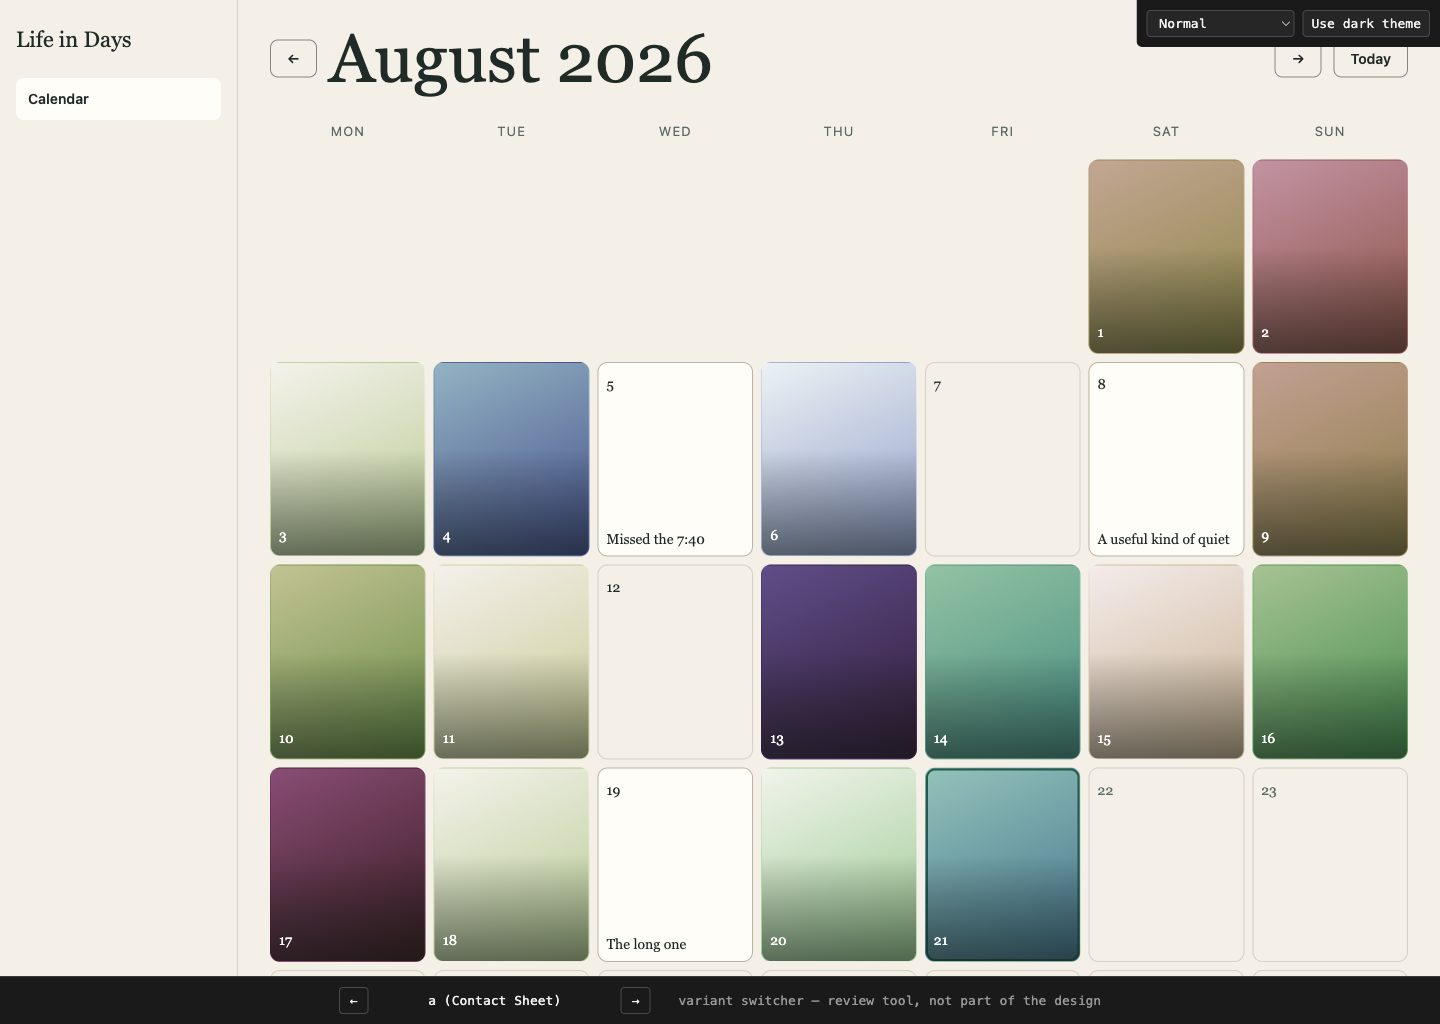
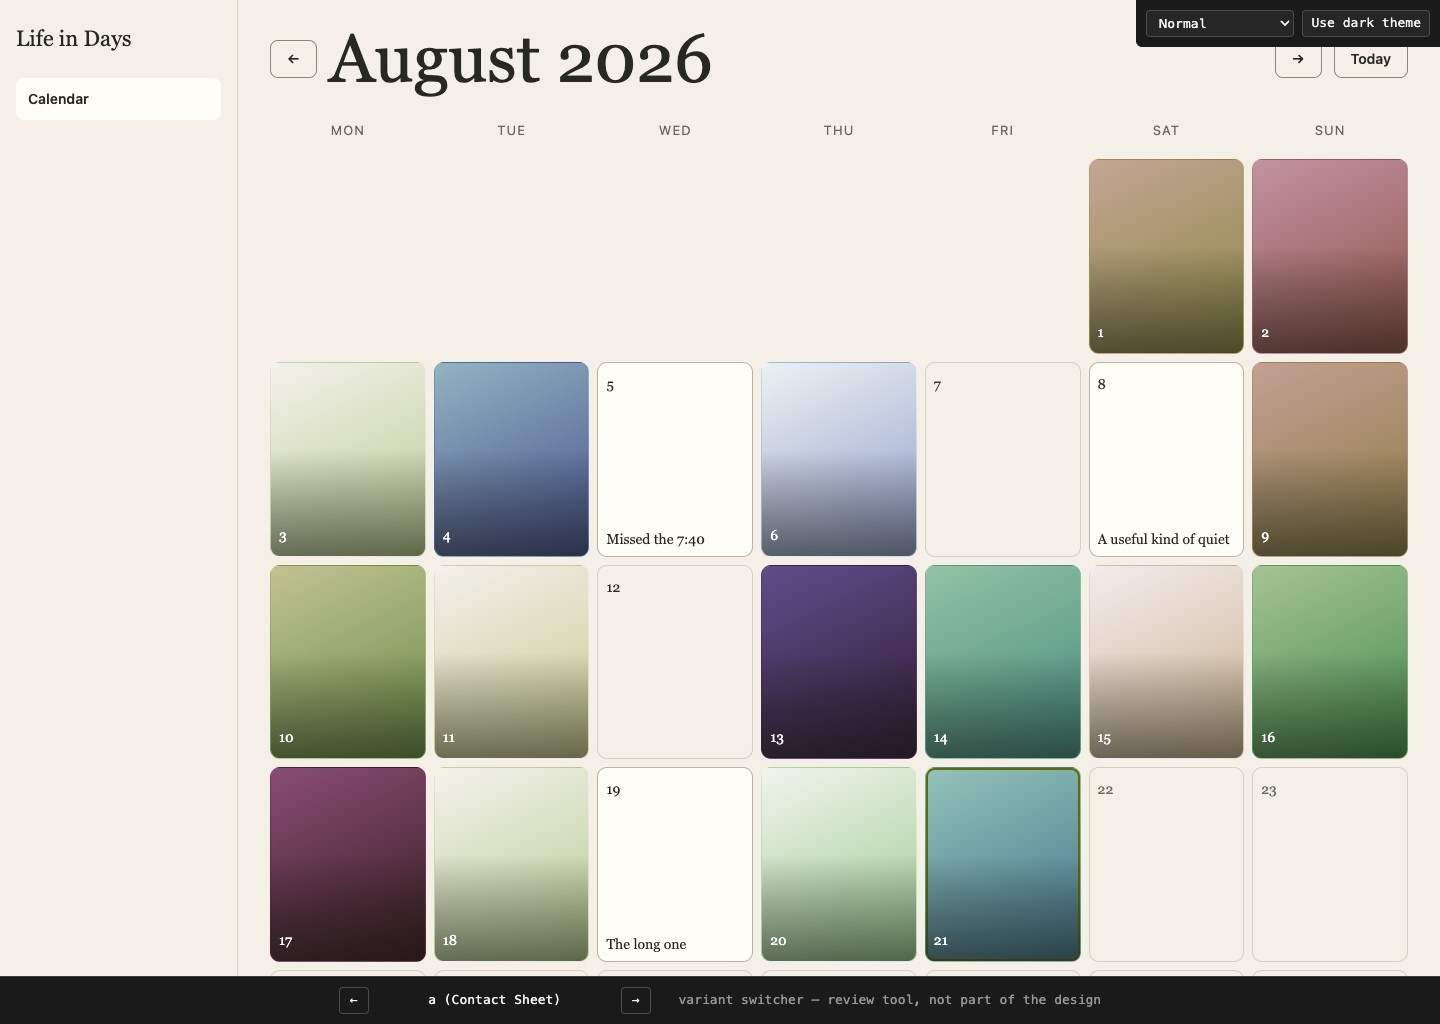
Rotate palette to apple green; approve M1 shell as Variant B (Editorial)
Owner chose Variant B and asked for the accent rotated toward apple
green (this is a new decision, not a return to the never-used UX
§28.1 brown -- see the tokens.css header for the actual history).

Changed exactly one thing -- --brand-hue: 171 -> 115 -- per the token
layer's own design intent, then re-measured everything downstream
rather than trusting the rotation:

- A straight hue-only rotation at the old chroma rendered as a muddy
  olive, not green: at hue ~115-120 the sRGB gamut caps out fast, so
  chroma had to go up (accent 0.062->0.16 light, 0.077->0.13 dark) to
  read as apple green at all.
- First dark-mode pass (L0.734/C0.14, #a1b442) read too close to the
  banned near-black+acid-green cluster on a filled button. Pulled back
  to L0.70/C0.13 (#97a941) -- still clearly green, calmer at scale.
- All contrast pairs re-verified in the specimen's measured table:
  every pair that passed before still passes (accent 5.05:1 light /
  6.86:1 dark, focus 3.32:1 light / 11.59:1 dark). Lighthouse
  accessibility 100/100/100 confirmed on all three M1 variants after
  the change.

M1: reordered VARIANTS so 'b' (now labelled "Editorial — approved")
loads by default; A and C stay reachable via the switcher for
reference. Screenshots regenerated with the new palette.

diff --git a/prototypes/_shared/tokens.css b/prototypes/_shared/tokens.css
@@ -2,21 +2,31 @@
  * PROTOTYPE ARTIFACT. Not production code, but written to be dropped into the
  * app's single stylesheet. This file is the design input to issue #187.
  *
- * Colour: prototype-v10's decided palette (accent #255949, focus #0a7762),
- *         re-expressed in OKLCH off two hue variables. UX §28.1 is superseded.
+ * Colour: started from prototype-v10's forest/teal green (accent #255949,
+ *         focus #0a7762), rotated to an apple green (#596e00 / #708e00) on
+ *         2026-08-21 at the owner's request. UX §28.1's brown is superseded
+ *         and was never used here; see the handover docs if that history
+ *         matters. Expressed in OKLCH off two hue variables either way.
  * Type / spacing / shape / motion: UX-SPECIFICATION.md §28.2–28.4.
  *
  * Two hues, not one. The archive is warm paper and cool ink: the paper
  * surfaces sit at hue ~86 (warm), the greens and the green-tinted inks at
- * hue ~171. Driving both from one number would flatten that, so there are
- * two knobs. Each still shifts a whole family.
+ * hue ~115 (apple green — was ~171, forest/teal, until 2026-08-21). Driving
+ * both from one number would flatten that, so there are two knobs. Each
+ * still shifts a whole family — which is exactly what changing --brand-hue
+ * alone just did.
  */
 
 :root {
   color-scheme: light;
 
   /* ── The two knobs ───────────────────────────────────────────────── */
-  --brand-hue: 171; /* forest: accent, focus, ink, lines in dark theme */
+  --brand-hue: 115; /* apple green: accent, focus, ink, lines in dark theme.
+    Rotated from 171 (forest/teal) on 2026-08-21 at the owner's request — one
+    number, per the file's own design intent (see header). Everything below
+    that references --brand-hue re-measures automatically; nothing else
+    changed. If a later agent sees 115 and assumes 171 was the decision and
+    "fixes" it back: don't. This value is the current decision. */
   --paper-hue: 86;  /* warm paper: canvas, raised surfaces, light lines */
 
   /* ── Colour · 6 chosen values + focus (given) ─────────────────────
@@ -24,13 +34,18 @@
    * Verified side by side in tokens-specimen.html, not by trusting math. */
   --paper:        oklch(0.956 0.013 var(--paper-hue)); /* #f4f0e7 canvas */
   --paper-raised: oklch(0.994 0.007 var(--paper-hue)); /* #fffdf8 cards, media frames, dialogs */
-  --ink:          oklch(0.274 0.016 var(--brand-hue)); /* #1f2a27 the work: journal prose, dates */
-  --ink-muted:    oklch(0.510 0.016 var(--brand-hue)); /* #5e6964 the margin: provenance, meta */
-  --line:         oklch(0.860 0.020 var(--paper-hue)); /* #d8d0c3 tonal separation */
-  --line-strong:  oklch(0.771 0.024 var(--paper-hue)); /* #bdb3a4 a visible edge, not a control */
-  --line-control: oklch(0.620 0.024 var(--paper-hue)); /* form-control borders only — measures 3:1 */
-  --accent:       oklch(0.423 0.062 var(--brand-hue)); /* #255949 primary action + selection */
-  --focus:        oklch(0.509 0.094 calc(var(--brand-hue) + 3)); /* #0a7762 given; +3 keeps it exact */
+  --ink:          oklch(0.274 0.016 var(--brand-hue)); /* #272820 the work: journal prose, dates */
+  --ink-muted:    oklch(0.510 0.016 var(--brand-hue)); /* #65675d the margin: provenance, meta */
+  --line:         oklch(0.860 0.020 var(--paper-hue)); /* #d7d0c3 tonal separation */
+  --line-strong:  oklch(0.771 0.024 var(--paper-hue)); /* #bbb4a4 a visible edge, not a control */
+  --line-control: oklch(0.620 0.024 var(--paper-hue)); /* #8d8576 form-control borders only — measures 3:1 */
+  /* Accent/focus need more chroma than a straight hue-rotation of the old
+   * values carried over: at hue ~120 the sRGB gamut caps out fast, so the
+   * old chroma (0.062/0.094) rendered as a muddy olive, not apple green.
+   * Boosted chroma + re-measured lightness to land back on real vivid green
+   * while still clearing 4.5:1 / 3:1 against --paper. Measured, not assumed. */
+  --accent:       oklch(0.50 0.16 var(--brand-hue)); /* #596e00 primary action + selection — 5.05:1 on paper */
+  --focus:        oklch(0.60 0.15 calc(var(--brand-hue) + 8)); /* #708e00 — 3.32:1 on paper */
 
   /* Why --line-control exists, measured not assumed.
    * --line-strong is 1.70:1 on --paper (2.66:1 dark). WCAG 1.4.11 / UX-A11Y-10
@@ -118,19 +133,30 @@
 :root[data-theme="dark"] {
   color-scheme: dark;
 
-  /* Dark is deep green-tinted ink, not near-black, and the accent is a
-   * desaturated sage, not acid green. Both are deliberate: near-black plus
-   * one saturated green accent is a recognisable generated-design cluster
-   * and this palette sits one step away from it. */
-  --paper:        oklch(0.205 0.013 var(--brand-hue)); /* #111917 */
-  --paper-raised: oklch(0.240 0.017 var(--brand-hue)); /* #17221f */
-  --ink:          oklch(0.953 0.009 var(--brand-hue)); /* #edf1eb */
-  --ink-muted:    oklch(0.792 0.014 var(--brand-hue)); /* #b4beb8 */
-  --line:         oklch(0.362 0.018 var(--brand-hue)); /* #34413d */
-  --line-strong:  oklch(0.479 0.019 var(--brand-hue)); /* #53615c */
-  --line-control: oklch(0.530 0.019 var(--brand-hue)); /* measures 3:1 on dark --paper */
-  --accent:       oklch(0.734 0.077 var(--brand-hue)); /* #75b9a2 */
-  --focus:        oklch(0.859 0.074 var(--brand-hue)); /* #9fe1ca */
+  /* Dark is warm olive-brown ink, not near-black. The accent is now a more
+   * vivid apple green than the old forest/teal (chroma had to go up to read
+   * as green at all at this hue — see the note at --accent below), which
+   * moves it closer to the banned near-black+acid-green cluster than the
+   * old palette was. Checked deliberately: canvas stays warm dark olive,
+   * not black; accent is a mid-tone yellow-green (#a1b442), not a
+   * saturated pure-hue neon. Re-check this specifically if it drifts. */
+  --paper:        oklch(0.205 0.013 var(--brand-hue)); /* #171811 */
+  --paper-raised: oklch(0.240 0.017 var(--brand-hue)); /* #1f2017 */
+  --ink:          oklch(0.953 0.009 var(--brand-hue)); /* #eff0ea */
+  --ink-muted:    oklch(0.792 0.014 var(--brand-hue)); /* #bbbcb2 */
+  --line:         oklch(0.362 0.018 var(--brand-hue)); /* #3d3f34 */
+  --line-strong:  oklch(0.479 0.019 var(--brand-hue)); /* #5d5f53 */
+  --line-control: oklch(0.530 0.019 var(--brand-hue)); /* #6b6d61 — measures 3:1 on dark --paper */
+  /* Same gamut/chroma story as light mode: boosted chroma so it reads as
+   * apple green rather than a washed pastel. #a1b442 stays a full step
+   * away from the banned near-black+acid-green cluster — this canvas is
+   * warm dark olive-brown (#171811), not black, and the accent itself is
+   * a muted mid-tone, not a saturated neon. */
+  --accent:       oklch(0.70 0.13 calc(var(--brand-hue) + 3)); /* #97a941 — 6.86:1 on dark paper.
+    First pass (L0.734/C0.14, #a1b442) rendered too close to the banned
+    near-black+acid-green cluster on a filled button — pulled lightness and
+    chroma back a step. Still clearly apple green, reads calmer at scale. */
+  --focus:        oklch(0.85 0.13 calc(var(--brand-hue) + 7)); /* #bfdb78 — 11.59:1 on dark paper */
 
   --ink-on-accent: oklch(0.205 0.013 var(--brand-hue));
   --scrim-media:   oklch(0.15 0.010 var(--brand-hue) / 0.62);

diff --git a/prototypes/_shared/tokens-specimen.html b/prototypes/_shared/tokens-specimen.html
@@ -400,17 +400,20 @@
 <script>
 /* Prototype furniture. In-memory only; reload returns to the first state. */
 
-/* The decided palette, as literals, so the swatch can compare against them. */
+/* The decided palette, as literals, so the swatch can compare against them.
+   Rotated from forest/teal to apple green on 2026-08-21 (--brand-hue 171→115,
+   accent/focus chroma boosted — see tokens.css for why). Re-measured, not
+   carried over from the old hex values. */
 const DECIDED = {
   light: {
-    paper: '#f4f0e7', 'paper-raised': '#fffdf8', ink: '#1f2a27',
-    'ink-muted': '#5e6964', line: '#d8d0c3', 'line-strong': '#bdb3a4',
-    accent: '#255949', focus: '#0a7762'
+    paper: '#f4f0e7', 'paper-raised': '#fffdf8', ink: '#272820',
+    'ink-muted': '#65675d', line: '#d7d0c3', 'line-strong': '#bbb4a4',
+    accent: '#596e00', focus: '#708e00'
   },
   dark: {
-    paper: '#111917', 'paper-raised': '#17221f', ink: '#edf1eb',
-    'ink-muted': '#b4beb8', line: '#34413d', 'line-strong': '#53615c',
-    accent: '#75b9a2', focus: '#9fe1ca'
+    paper: '#171811', 'paper-raised': '#1f2017', ink: '#eff0ea',
+    'ink-muted': '#bbbcb2', line: '#3d3f34', 'line-strong': '#5d5f53',
+    accent: '#97a941', focus: '#bfdb78'
   }
 };
 /* --line-control has no v10 equivalent: it was derived here to satisfy the

diff --git a/prototypes/m1-calendar-shell/app.js b/prototypes/m1-calendar-shell/app.js
@@ -423,8 +423,8 @@ function boot(variant) {
 }
 
 const VARIANTS = [
+  { key: 'b', name: 'Editorial — approved' },
   { key: 'a', name: 'Contact Sheet' },
-  { key: 'b', name: 'Editorial' },
   { key: 'c', name: 'Ledger' }
 ];
 
